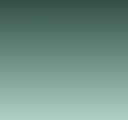
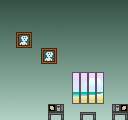
added all level bgs

diff --git a/js/MermaidStages.js b/js/MermaidStages.js
@@ -27,7 +27,7 @@ Mer.Win05Stage = function (game) {};
 Mer.BathroomStage = function (game) {};
 
 Mer.MenuStage.prototype = Mer.StageConstructor.Menu('Menu','background', 'Tank', 'title', false);
-Mer.DeathStage.prototype = Mer.StageConstructor.Menu('Death', 'death', 'Menu', 'death', false);
+Mer.DeathStage.prototype = Mer.StageConstructor.Menu('Death', 'death', 'Menu', 'death', false, true);
 Mer.Win01Stage.prototype = Mer.StageConstructor.Menu('Win01', 'win01', 'Win02', 'beach', true);
 Mer.Win02Stage.prototype = Mer.StageConstructor.Menu('Win02', 'win02', 'Win03', null, true);
 Mer.Win03Stage.prototype = Mer.StageConstructor.Menu('Win03', 'win03', 'Win04', null, true);
@@ -86,14 +86,14 @@ Mer.Lab03Stage.prototype = Mer.StageConstructor.Lab('Lab03','lab03', 128,
 Mer.Lab04Stage.prototype = Mer.StageConstructor.Lab('Lab04','lab04', 256,
                                                    [{x:70,y:100},{x:80,y:100}],
                                                    [],
-                                                   [{leadsTo: 'Hallway03', x: 128, y:104, playerX: 500},
+                                                   [{leadsTo: 'Hallway03', x: 112, y:104, playerX: 500},
                                                     {leadsTo: 'Lab05', x: 0, y:104, playerX: 224},
                                                     {leadsTo: 'Lab08', x: 240, y:104, playerX: 10}]);
 
 Mer.Lab05Stage.prototype = Mer.StageConstructor.Lab('Lab05','lab05', 256,
                                                    [{x:70,y:100},{x:80,y:100}],
                                                    [],
-                                                   [{leadsTo: 'Lab06', x: 128, y:104, playerX: 10},
+                                                   [{leadsTo: 'Lab06', x: 56, y:104, playerX: 10},
                                                     {leadsTo: 'Lab07', x: 0, y:104, playerX: 120},
                                                     {leadsTo: 'Lab04', x: 240, y:104, playerX: 10}]);
 
@@ -159,6 +159,6 @@ Mer.Fountain01Stage.prototype = Mer.StageConstructor.Lab('Fountain01','fountain0
 
 Mer.Fountain02Stage.prototype = Mer.StageConstructor.Lab('Fountain02','fountain02', 256,
                                                    [{x:70,y:100},{x:80,y:100}],
-                                                   [{name:'fountain',x:88,y:90, water:true}],
+                                                   [{name:'fountain',x:112,y:90, water:true}],
                                                    [{leadsTo: 'Lab10', x: 248, y:104, playerX: 10},
                                                     {leadsTo: 'Lab09', x: 0, y:104, playerX: 120}]);

diff --git a/js/MermaidStageConstructor.js b/js/MermaidStageConstructor.js
@@ -8,8 +8,13 @@ Mer.StageConstructor.Menu = (function () {
         Mer.Components.Background(this, true);
         if (this.musicKey) {
             this.sound.stopAll();
-            this.music = this.add.audio(this.musicKey);
-            this.music.play();
+            if (this.deathscreen) {
+                this.music = this.add.audio(this.musicKey);
+                this.music.play();
+            } else {
+                this.music = this.add.audio(this.musicKey, 1, true);
+                this.music.play('',1,true);
+            }
         }
         this.spaceKey = this.input.keyboard.addKey(Phaser.Keyboard.SPACEBAR);
         this.startedAt = this.time.time;
@@ -31,10 +36,11 @@ Mer.StageConstructor.Menu = (function () {
         }
     }
 
-    return function (stageName, backgroundKey, nextStage, musicKey, dontStop) {
+    return function (stageName, backgroundKey, nextStage, musicKey, dontStop, deathscreen) {
         return {
             backgroundKey: backgroundKey,
             dontStop: dontStop,
+            deathscreen: deathscreen,
             musicKey: musicKey,
             nextStage: nextStage,
             stageName: stageName,
@@ -54,7 +60,7 @@ Mer.StageConstructor.Lab = (function () {
         if (this.stageName == 'Tank') {
             this.sound.pauseAll();
             this.music = this.add.audio('theme');
-            this.music.play();
+            this.music.play('',1,true);
         }
         this.bash = this.add.audio('bash');
         this.hit = this.add.audio('hit');

diff --git a/js/MermaidConstants.js b/js/MermaidConstants.js
@@ -57,7 +57,8 @@ Mer.Constants.imageList = ['background',
                            'win02',
                            'win03',
                            'win04',
-                           'win05'
+                           'win05',
+                           'lobby'
                           ];
 
 Mer.Constants.gravity = 400;
